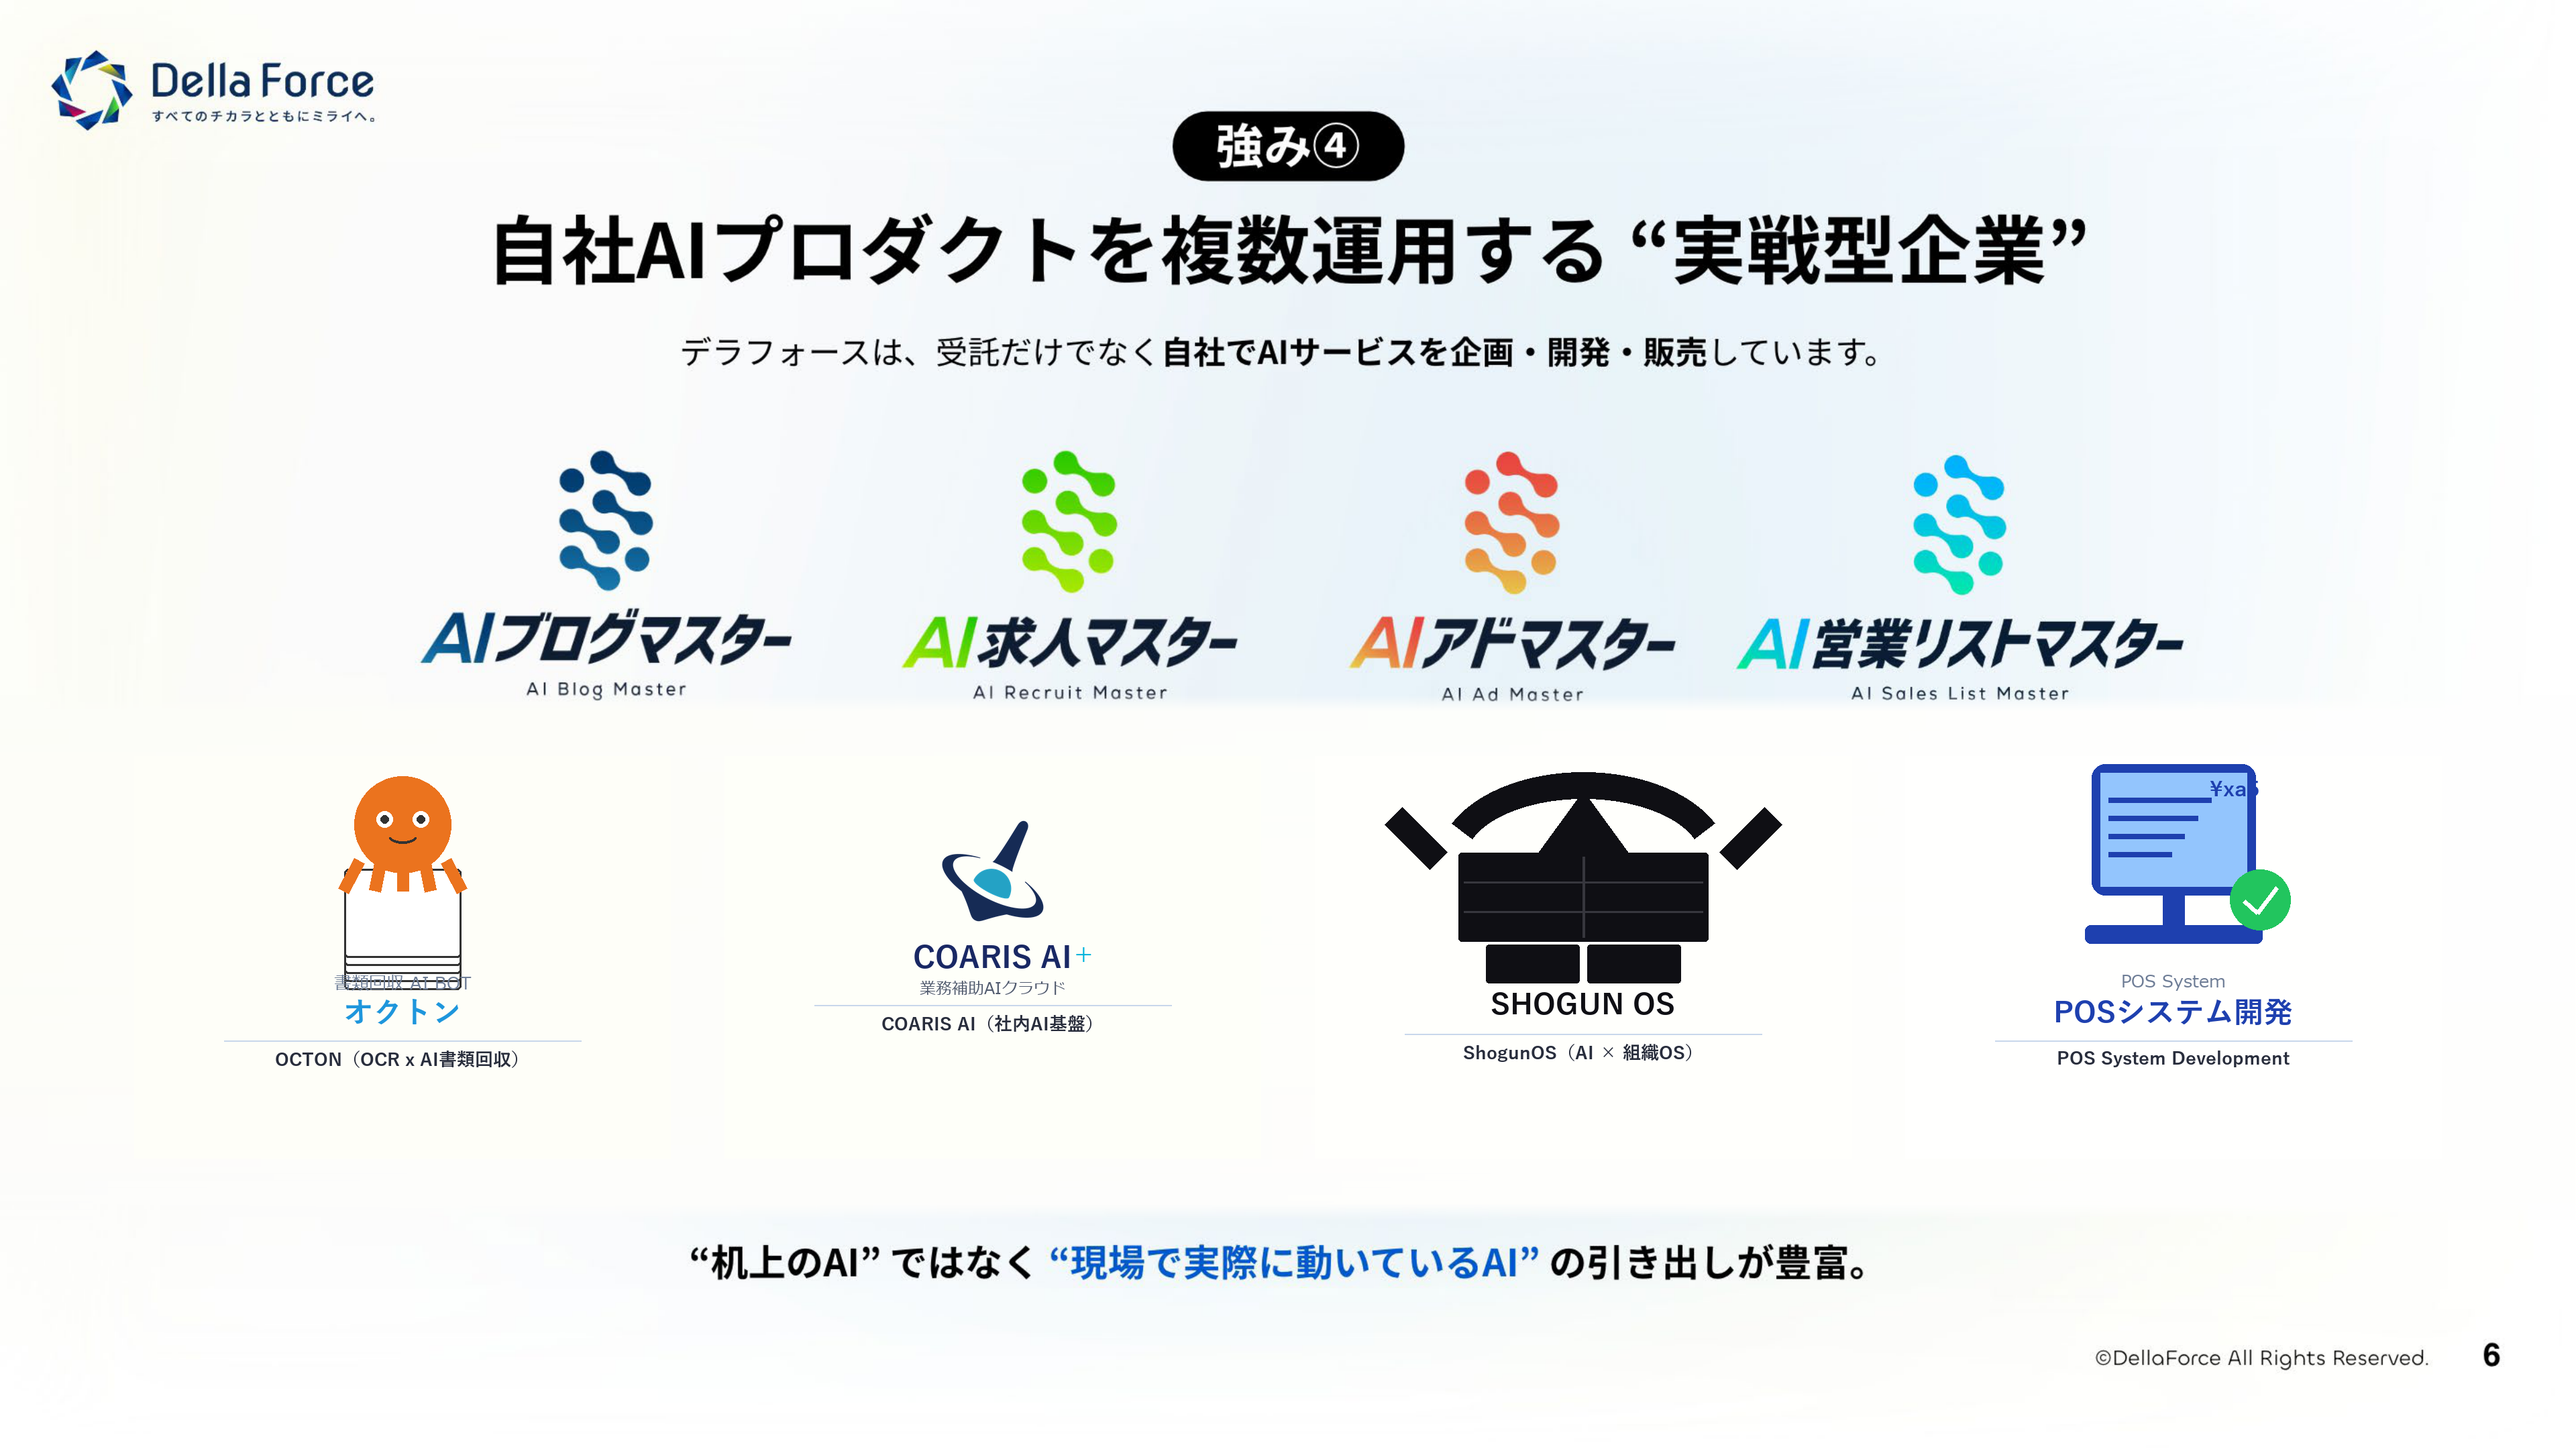
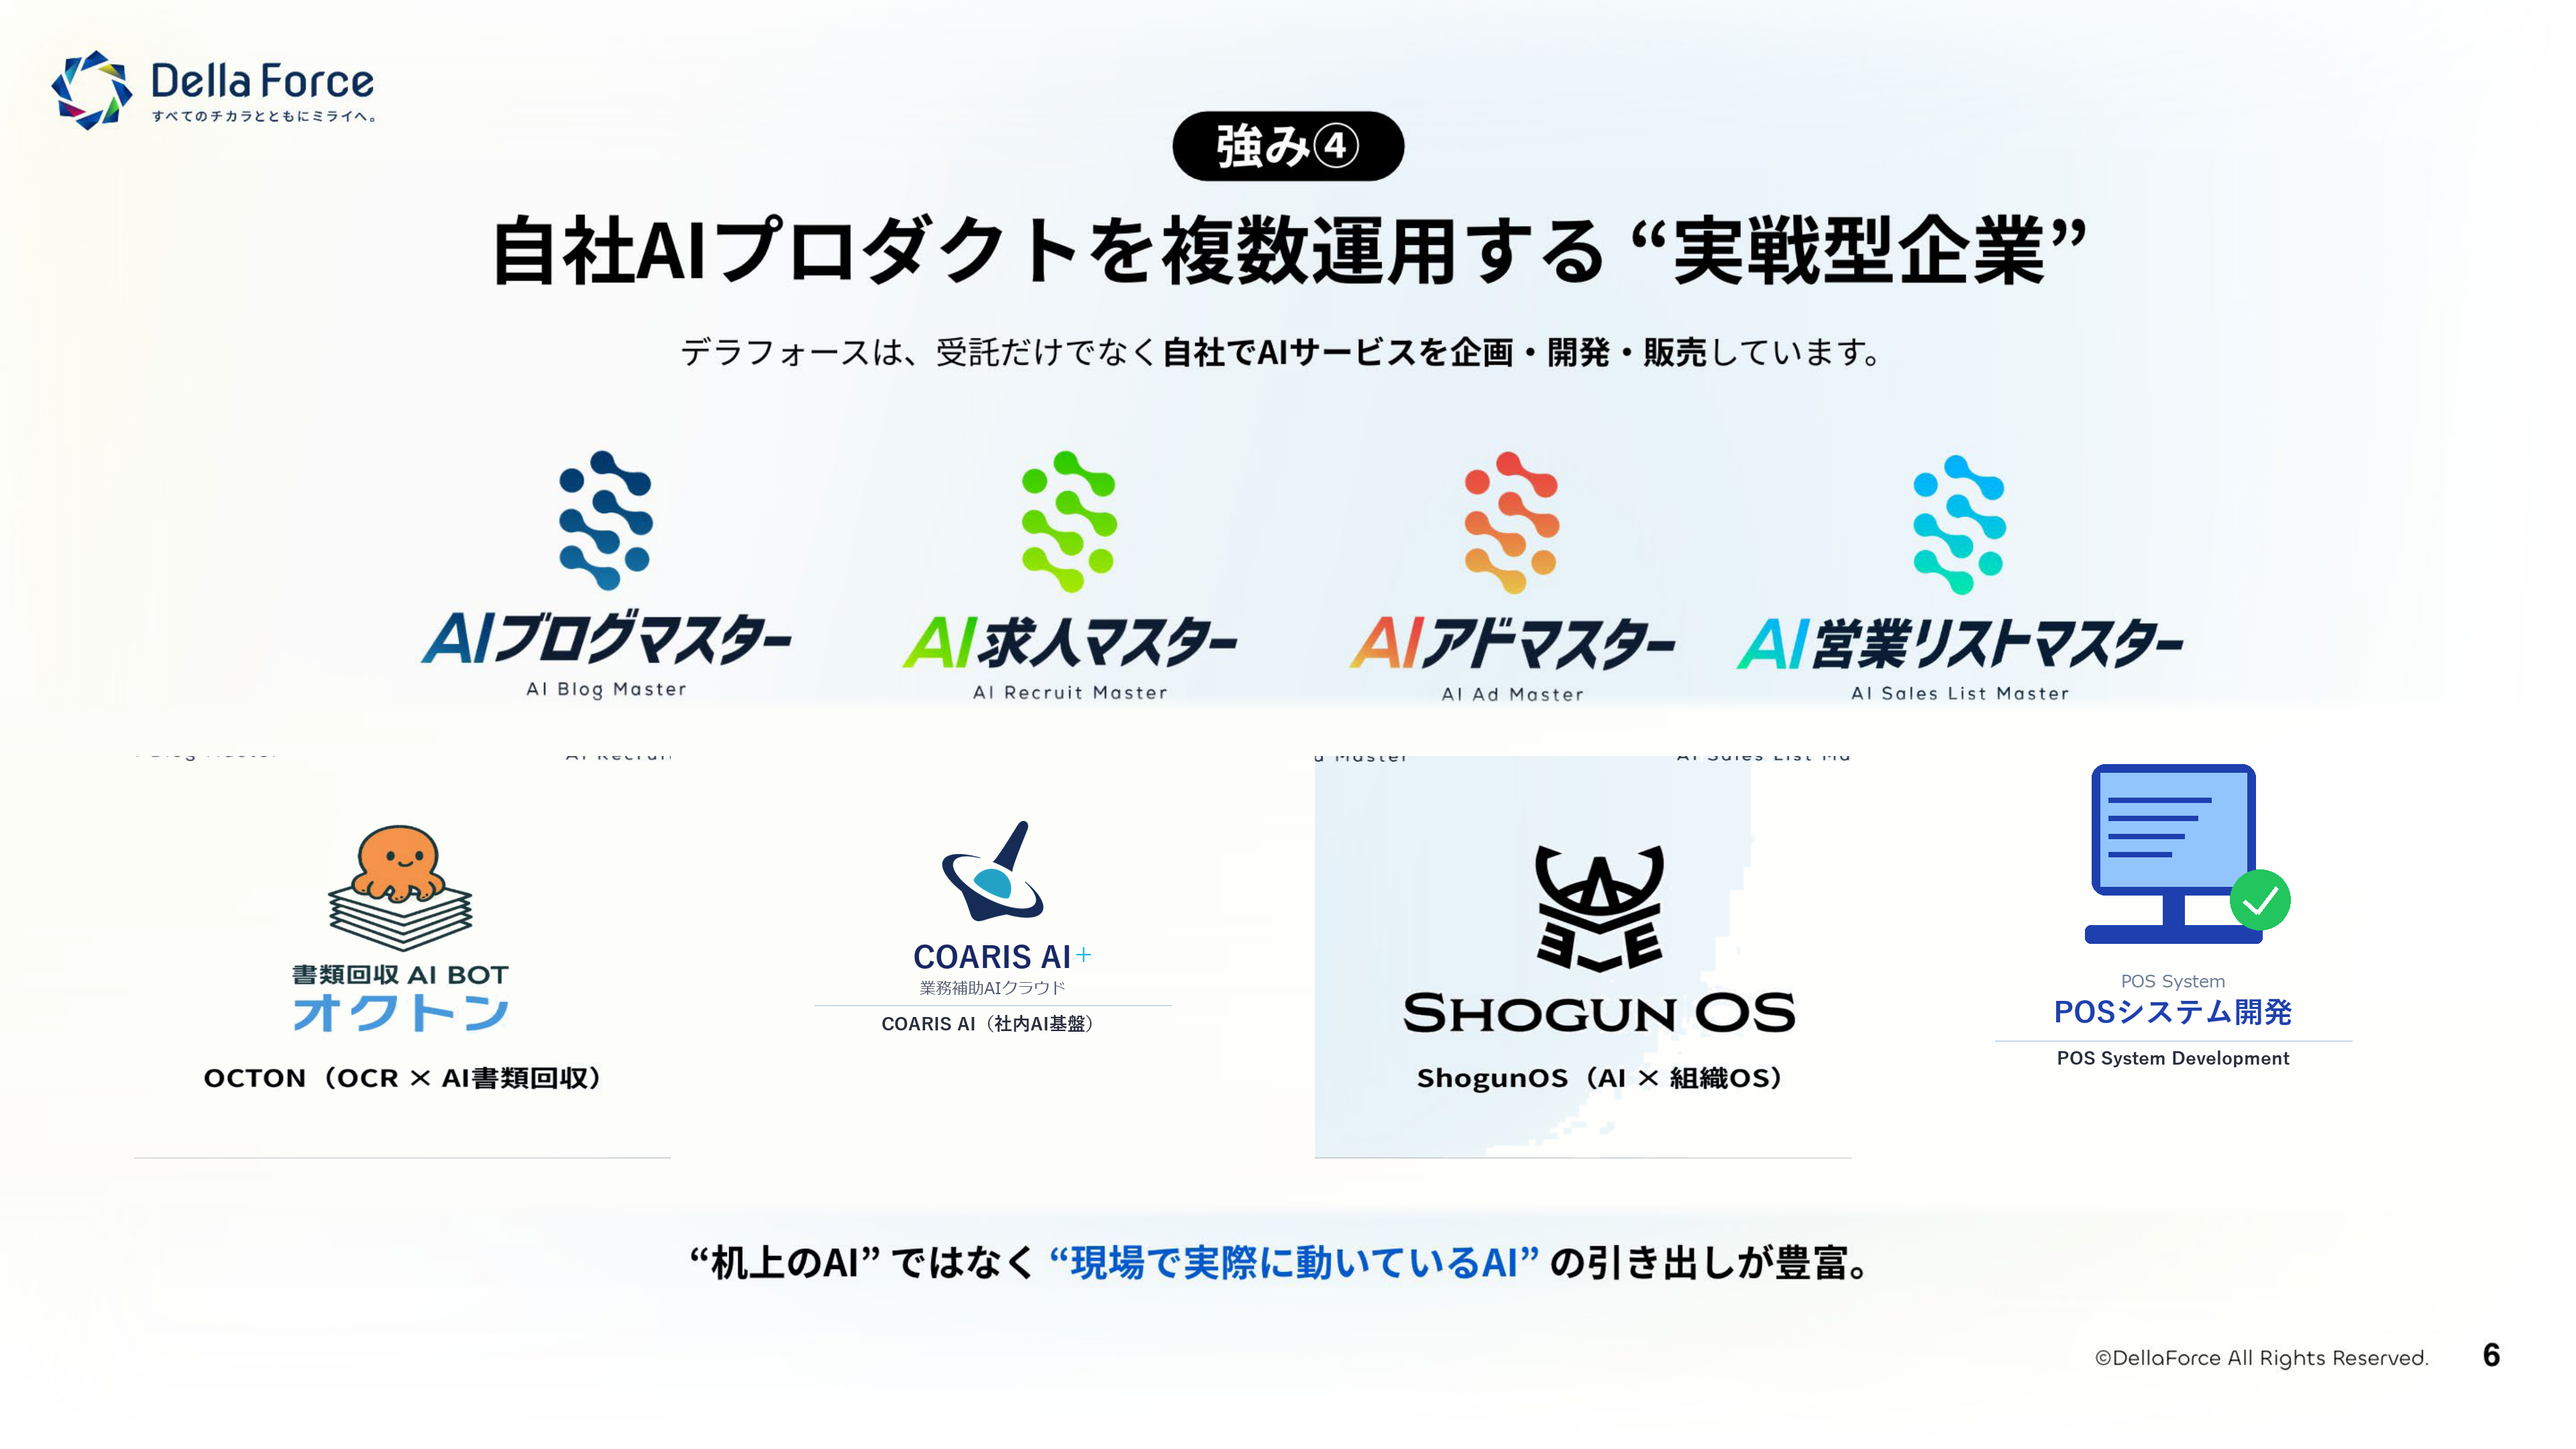
auto: update 2026-06-08 20:15:47

Changed region(s): [[0.5, 0.5273, 0.7188, 0.7755], [0.0938, 0.5273, 0.2188, 0.7755]]

diff --git a/17【岩田さん用株式会社Della Force会社概要資料】/build_page6.py b/17【岩田さん用株式会社Della Force会社概要資料】/build_page6.py
@@ -40,64 +40,59 @@ def item_cx(i): return item_x0(i) + IW//2
 # item_x0: [200, 1080, 1960, 2840]
 # item_cx: [600, 1480, 2360, 3240]
 
-print(f"IW={IW}, IH={IH}, LOGO_ZONE_Y={LOGO_ZONE_Y}")
-print(f"Column centers: {[item_cx(i) for i in range(4)]}")
+# ─── 3. オリジナルロゴをクロップして貼り付け ───
+# クロップ範囲: y=1080〜1680（600px）
+# ・1行目テキストの下端（y≈1040）を避ける
+# ・フェード領域（BG_Y0〜BG_Y0+25）を避ける
+CROP_Y0 = 1080
+CROP_Y1 = 1680   # = CROP_Y0 + IH = 1080 + 600
 
-# ─── 3. オリジナル画像からロゴをマスク合成 ───
-# オリジナル底部のロゴ位置（解析済み）:
-#   OCTON  : content x=911-1503, center x=1207
-#   SHOGUN : content x=2304-2936, center x=2620
-# クロップ範囲: y=BG_Y0〜y=BG_Y0+739（コンテンツ縦範囲）→IHにスケール
-
-CROP_Y0 = BG_Y0         # 1035
-CROP_Y1 = BG_Y0 + 739   # 1774（元ロゴの縦範囲）
-
-def paste_original_logo(result_arr, slot_i, orig_cx, threshold=18):
-    """元画像からロゴを切り抜き、グラデーション背景を透過させてスロットに合成"""
-    # 水平クロップ（IW幅、orig_cx中心）
-    cx0 = max(0, orig_cx - IW//2)
-    cx1 = min(W, cx0 + IW)
+def paste_original_logo(result_arr, slot_i, orig_cx, threshold=45):
+    """
+    元画像からロゴを切り抜き、グラデーション背景をマスクしてスロットに合成。
+    threshold高めで白カード部分を除外し、濃い色のロゴのみ抽出。
+    """
+    crop_w = IW
+    cx0 = max(0, orig_cx - crop_w//2)
+    cx1 = min(W, cx0 + crop_w)
     actual_w = cx1 - cx0
 
-    orig_crop = arr[CROP_Y0:CROP_Y1, cx0:cx1]            # shape: (739, IW, 3)
-    bg_at     = bg_zone[CROP_Y0-BG_Y0:CROP_Y1-BG_Y0, cx0:cx1]  # same shape
+    # 元画像クロップ（IH=600px、スケール不要）
+    orig_crop = arr[CROP_Y0:CROP_Y1, cx0:cx1].astype(np.float32)
+    bg_at     = bg_zone[CROP_Y0-BG_Y0:CROP_Y1-BG_Y0, cx0:cx1]
 
-    # ロゴ領域マスク（グラデーションとの差分）
-    diff = np.abs(orig_crop.astype(np.float32) - bg_at).max(axis=2)
+    # ロゴピクセルマスク（背景グラデーションとの差分が閾値以上）
+    diff     = np.abs(orig_crop - bg_at).max(axis=2)
     mask_raw = (diff > threshold).astype(np.uint8) * 255
 
-    # 幅が足りない場合は中央配置でパディング
+    # 幅不足の場合は中央パディング
     if actual_w < IW:
         pad_l = (IW - actual_w) // 2
-        orig_pad = np.zeros((CROP_Y1-CROP_Y0, IW, 3), dtype=np.uint8)
-        mask_pad = np.zeros((CROP_Y1-CROP_Y0, IW),    dtype=np.uint8)
-        orig_pad[:, pad_l:pad_l+actual_w] = orig_crop
-        mask_pad[:, pad_l:pad_l+actual_w] = mask_raw
-        orig_crop = orig_pad
-        mask_raw  = mask_pad
+        p_img  = np.zeros((IH, IW, 3), dtype=np.float32)
+        p_mask = np.zeros((IH, IW),    dtype=np.uint8)
+        p_img[:, pad_l:pad_l+actual_w]  = orig_crop
+        p_mask[:, pad_l:pad_l+actual_w] = mask_raw
+        orig_crop = p_img
+        mask_raw  = p_mask
 
-    # スケール: (IW, 739) → (IW, IH=600)
-    orig_img = Image.fromarray(orig_crop.astype(np.uint8)).resize((IW, IH), Image.LANCZOS)
-    mask_img = Image.fromarray(mask_raw).resize((IW, IH), Image.LANCZOS)
-    mask_img = mask_img.filter(ImageFilter.GaussianBlur(1))
+    # マスク平滑化（エッジをなめらかに）
+    mask_img = Image.fromarray(mask_raw).filter(ImageFilter.GaussianBlur(1.5))
+    mask_f   = np.array(mask_img, dtype=np.float32)[:, :, np.newaxis] / 255.0
 
-    orig_f = np.array(orig_img, dtype=np.float32)
-    mask_f = np.array(mask_img, dtype=np.float32)[:, :, np.newaxis] / 255.0
-
-    # スロットに合成（ロゴ部分のみ上書き、背景は新グラデーション）
-    dx0 = item_x0(slot_i)
-    dy0 = LOGO_ZONE_Y
+    # スロットに合成（ロゴ部分のみ元画像、背景は新グラデーション）
+    dx0  = item_x0(slot_i)
+    dy0  = LOGO_ZONE_Y
     dest = result_arr[dy0:dy0+IH, dx0:dx0+IW].astype(np.float32)
-    blended = dest * (1 - mask_f) + orig_f * mask_f
+    blended = dest * (1 - mask_f) + orig_crop * mask_f
     result_arr[dy0:dy0+IH, dx0:dx0+IW] = np.clip(blended, 0, 255)
 
-# OCTON（スロット0）
-paste_original_logo(result_arr, slot_i=0, orig_cx=1207)
-print("OCTON pasted")
+# OCTON（スロット0）: content center x≈1207
+paste_original_logo(result_arr, slot_i=0, orig_cx=1207, threshold=45)
 
-# SHOGUN（スロット2）
-paste_original_logo(result_arr, slot_i=2, orig_cx=2620)
-print("SHOGUN pasted")
+# SHOGUN（スロット2）: content center x≈2533（アイコン中心）
+paste_original_logo(result_arr, slot_i=2, orig_cx=2533, threshold=45)
+
+print("OCTON/SHOGUN pasted from original")
 
 # PIL描画用に変換
 result = Image.fromarray(result_arr.astype(np.uint8))
@@ -114,10 +109,12 @@ iw_c        = int(IW * 0.52)
 ih_c        = int(icon_only.height * iw_c / icon_only.width)
 icon_r      = icon_only.resize((iw_c, ih_c), Image.LANCZOS)
 
-logo_top = LOGO_ZONE_Y + int(IH * 0.04)
-paste_x  = item_x0(1) + (IW - iw_c) // 2
-result.paste(icon_r, (paste_x, logo_top), icon_r)
-icon_bottom_c = logo_top + ih_c
+# アイコン縦位置: CROP_Y0(1080)からLOGO_ZONE_Y(1127)へのオフセット分を考慮して
+# 他のロゴと視覚的に揃える（CROP_Y0=1080基準、logo_top≈1127+IH*0.04）
+logo_top_c = LOGO_ZONE_Y + int(IH * 0.10)
+paste_x_c  = item_x0(1) + (IW - iw_c) // 2
+result.paste(icon_r, (paste_x_c, logo_top_c), icon_r)
+icon_bottom_c = logo_top_c + ih_c
 
 cx1  = item_cx(1)
 NAVY = (25, 40, 100)
@@ -138,7 +135,8 @@ BLUE  = (30, 64, 175)
 LBLUE = (147, 197, 253)
 GREEN = (34, 197, 94)
 
-TOP = LOGO_ZONE_Y + int(IH * 0.02)
+# アイコン開始位置（CROP_Y0=1080相当にそろえるため+47上にずらし）
+TOP = LOGO_ZONE_Y + int(IH * 0.10)
 IS  = int(IH * 0.50)   # 300
 
 TW = int(IS * 0.82); TH = int(IS * 0.65)
@@ -160,7 +158,7 @@ d.line([(CCX-int(CR*.55), CCY+int(CR*.05)),
         (CCX-int(CR*.10), CCY+int(CR*.45)),
         (CCX+int(CR*.56), CCY-int(CR*.40))], fill="white", width=7)
 
-# POSラベル
+# POSラベル（CROP_Y0基準でオフセット調整）
 icon_bottom_p = TOP + IS
 ty3 = icon_bottom_p + 14
 d.text((cx3, ty3), "POS System", font=FME(26), fill=(110, 125, 150), anchor="mt")
